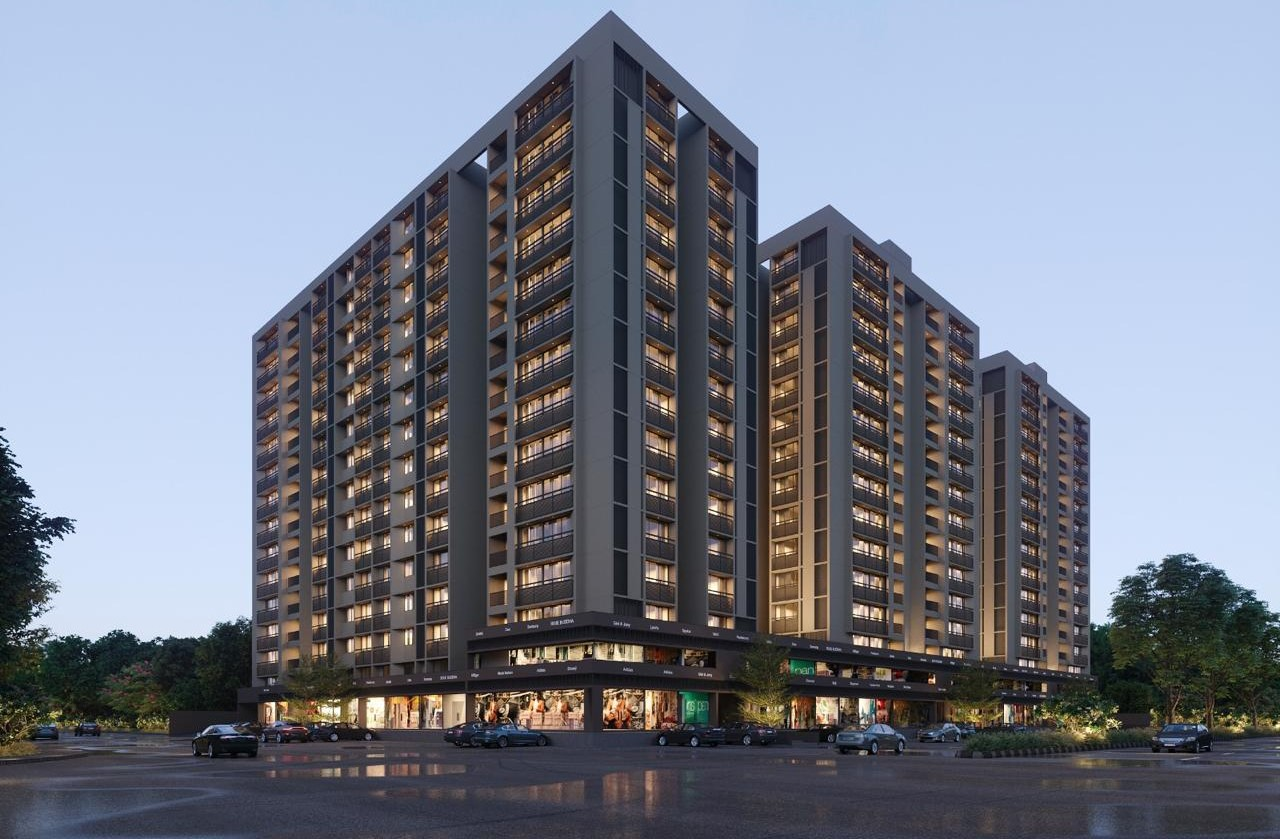
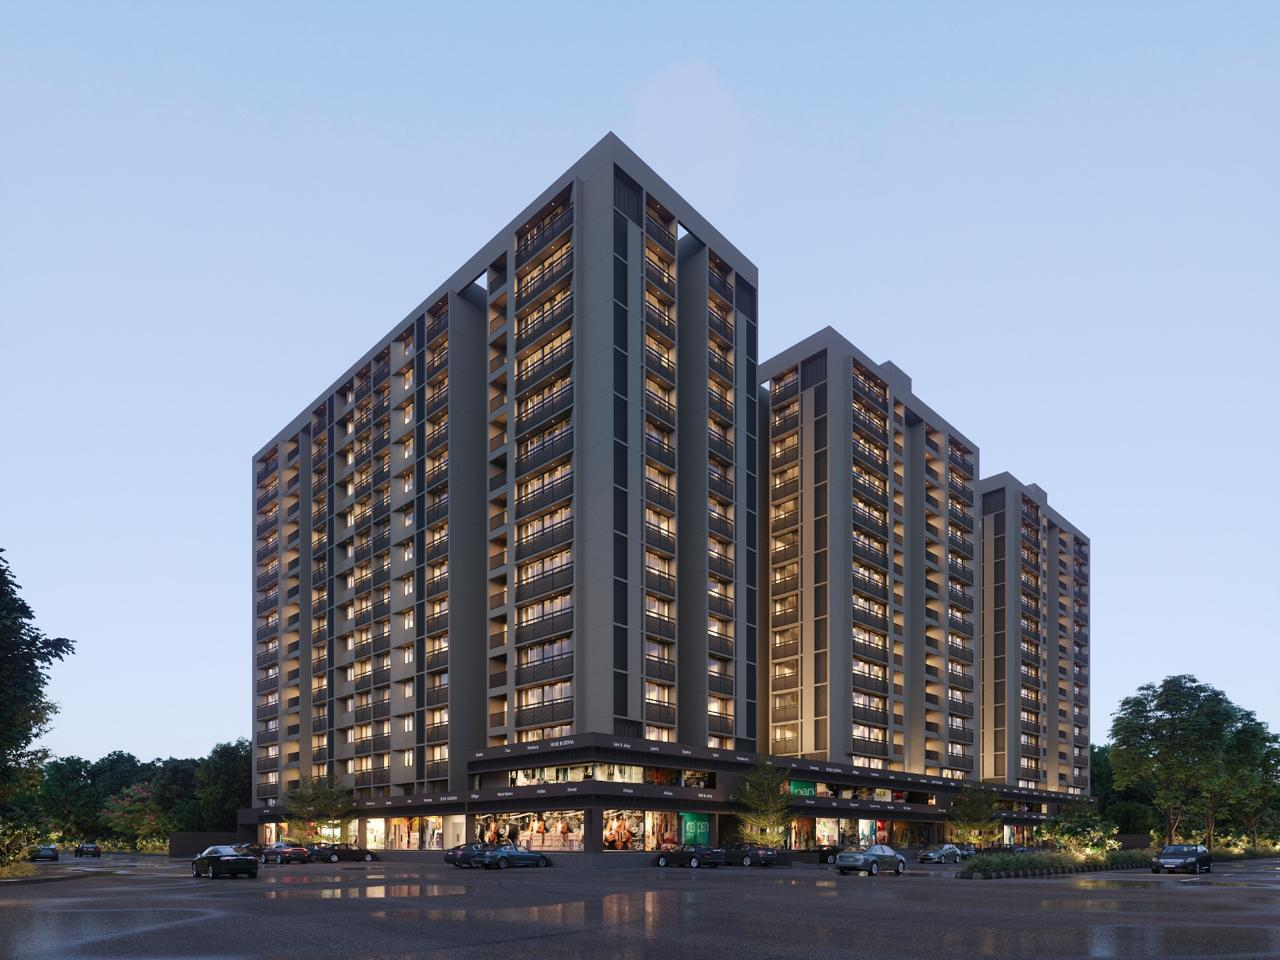
updated some images and styling

Changed region(s): [[0.0, 0.0, 1.0, 0.9607]]

diff --git a/nirman-projects.html b/nirman-projects.html
@@ -263,7 +263,7 @@
                                         <div class="swiper-slide">
                                             <div class="card" style="width: 100%">
                                                 <div style="overflow: hidden">
-                                                    <img src="./demoimage.jpg" class="card-img-top" alt="..." />
+                                                    <img src="./projects-images/nirman-greens.jpeg" class="card-img-top" alt="..." />
                                                 </div>
                                                 <div class="card-body">
                                                     <h5 class="card-title">
@@ -275,8 +275,7 @@
                                                         data-target="#projectModal" data-project-name="Nirmaan Greens"
                                                         data-project-type="Residential, Commercial"
                                                         data-project-size="Not available" data-project-year="2019"
-                                                        data-project-location="Prantij Highway" data-project-images="./projects-images/nirman-greens.jpeg,
-                                                                             ./projects-images/nirmaan-greens1.png"
+                                                        data-project-location="Prantij Highway" data-project-images="./projects-images/nirman-greens.jpeg,./projects-images/nirmaan-greens1.png"
                                                         data-project-value="25 Crores">Read More</a>
                                                 </div>
                                             </div>
@@ -284,7 +283,8 @@
                                         <div class="swiper-slide">
                                             <div class="card" style="width: 100%">
                                                 <div style="overflow: hidden">
-                                                    <img src="./demoimage.jpg" class="card-img-top" alt="..." />
+                                                    <img src="./projects-images/Final_Render_Entry_View_Revised.jpg.jpg"
+                                                        class="card-img-top" alt="..." />
                                                 </div>
                                                 <div class="card-body">
                                                     <h5 class="card-title">
@@ -564,7 +564,8 @@
                                         <div class="swiper-slide">
                                             <div class="card" style="width: 100%">
                                                 <div style="overflow: hidden">
-                                                    <img src="./demoimage.jpg" class="card-img-top" alt="..." />
+                                                    <img src="./projects-images/Nirmansatva/01.jpg" class="card-img-top"
+                                                        alt="..." />
                                                 </div>
                                                 <div class="card-body">
                                                     <h5 class="card-title">
@@ -578,7 +579,7 @@
                                                         data-project-type="Residential, Commercial"
                                                         data-project-year="2019" data-project-value="120 Crores"
                                                         data-project-images="./projects-images/Nirmansatva/01.jpg,
-                                                                             ./projects-images/Nirmansatva/02.jpg,">Read
+                                                                             ./projects-images/Nirmansatva/02.jpg">Read
                                                         More</a>
                                                     <!--a href="#" class="btn project-card-btn">Read More</a-->
                                                 </div>
@@ -599,7 +600,8 @@
                                                         data-target="#projectModal"
                                                         data-project-name="Nirmaan Corporate Office"
                                                         data-project-type="Residential, Commercial"
-                                                        data-project-year="2019" data-project-location="S.G. Highway"
+                                                        data-project-size="Not available" data-project-year="2019"
+                                                        data-project-location="S.G. Highway"
                                                         data-project-value="20 Crores">Read More</a>
                                                 </div>
                                             </div>
@@ -607,7 +609,7 @@
                                         <div class="swiper-slide">
                                             <div class="card" style="width: 100%">
                                                 <div style="overflow: hidden">
-                                                    <img src="./demoimage.jpg" class="card-img-top" alt="..." />
+                                                    <img src="./projects-images/nirman-greens.jpeg" class="card-img-top" alt="..." />
                                                 </div>
                                                 <div class="card-body">
                                                     <h5 class="card-title">
@@ -618,8 +620,9 @@
                                                     <a class="btn project-card-btn" data-toggle="modal"
                                                         data-target="#projectModal" data-project-name="Nirmaan Greens"
                                                         data-project-type="Residential, Commercial"
+                                                        data-project-size="Not available"
                                                         data-project-year="2019" data-project-location="Prantij Highway"
-                                                        data-project-value="25 Crores" data-project-images="./projects-images/nirmaan-greens.jpeg,
+                                                        data-project-value="25 Crores" data-project-images="./projects-images/nirman-greens.jpeg,
                                                         ./projects-images/nirmaan-greens1.png">Read More</a>
                                                 </div>
                                             </div>
@@ -698,7 +701,8 @@
                                         <div class="swiper-slide">
                                             <div class="card" style="width: 100%">
                                                 <div style="overflow: hidden">
-                                                    <img src="./demoimage.jpg" class="card-img-top" alt="..." />
+                                                    <img src="./projects-images/Final_Render_commercial_Front-1.jpg"
+                                                        class="card-img-top" alt="..." />
                                                 </div>
                                                 <div class="card-body">
                                                     <h5 class="card-title">
@@ -784,7 +788,7 @@
                                         <div class="swiper-slide">
                                             <div class="card" style="width: 100%">
                                                 <div style="overflow: hidden">
-                                                    <img src="./demoimage.jpg" class="card-img-top" alt="..." />
+                                                    <img src="./projects-images/nirman-habitat1.jpeg" class="card-img-top" alt="..." />
                                                 </div>
                                                 <div class="card-body">
                                                     <h5 class="card-title">
@@ -1022,6 +1026,37 @@
     </script>
 
     <script>
+
+        var swiper1 = new Swiper(".mySwiper", {
+            slidesPerView: 1,
+            loop: true,
+            spaceBetween: 30,
+            // freeMode: true,
+            pagination: {
+                el: ".swiper-pagination",
+                clickable: true,
+            },
+            observer: true, // Add this
+            observeParents: true, // Add this
+
+            navigation: {
+                nextEl: ".tabnext1",
+                prevEl: ".tabprev1",
+            },
+
+            autoplay: {
+                delay: 3000, // Set autoplay delay to 3 seconds
+                disableOnInteraction: false,
+            },
+            breakpoints: {
+                // Add breakpoints for different screen sizes
+                768: {
+                    slidesPerView: 3, // Show only one slide on mobile
+                    spaceBetween: 10, // Adjust space between slides on mobile
+                },
+                // Add more breakpoints if needed
+            },
+        });
         var swiper2 = new Swiper(".mySwiper2", {
             slidesPerView: 1,
             loop: true,
@@ -1073,114 +1108,8 @@
                 },
             },
         });
-        var swiper4 = new Swiper(".mySwiper4", {
-            slidesPerView: 1,
-            loop: true,
-            spaceBetween: 30,
-            freeMode: true,
-            // pagination: {
-            //     el: ".swiper-pagination",
-            //     clickable: true,
-            // },
-            navigation: true,
-            navigation: {
-                nextEl: ".tabnext4",
-                prevEl: ".tabprev4",
-            },
-            autoplay: {
-                delay: 3000,
-                disableOnInteraction: false,
-            },
-            breakpoints: {
-                768: {
-                    slidesPerView: 3,
-                    spaceBetween: 10,
-                },
-            },
-        });
-        var swiper5 = new Swiper(".mySwiper5", {
-            slidesPerView: 1,
-            loop: true,
-            spaceBetween: 30,
-            freeMode: true,
-            // pagination: {
-            //     el: ".swiper-pagination",
-            //     clickable: true,
-            // },
-            navigation: true,
-            navigation: {
-                nextEl: ".tabnext5",
-                prevEl: ".tabprev5",
-            },
-            autoplay: {
-                delay: 3000,
-                disableOnInteraction: false,
-            },
-            breakpoints: {
-                768: {
-                    slidesPerView: 3,
-                    spaceBetween: 10,
-                },
-            },
-        });
 
-        var swiper6 = new Swiper(".mySwiper6", {
-            slidesPerView: 1,
-            loop: true,
-            spaceBetween: 30,
-            freeMode: true,
-            // pagination: {
-            //     el: ".swiper-pagination",
-            //     clickable: true,
-            // },
 
-            navigation: {
-                nextEl: ".tabnext6",
-                prevEl: ".tabprev6",
-            },
-            autoplay: {
-                delay: 3000,
-                disableOnInteraction: false,
-            },
-            breakpoints: {
-                768: {
-                    slidesPerView: 3,
-                    spaceBetween: 10,
-                },
-            },
-        });
-
-        var swiper1 = new Swiper(".mySwiper", {
-            slidesPerView: 1,
-            loop: true,
-            spaceBetween: 30,
-            // freeMode: true,
-            pagination: {
-                el: ".swiper-pagination",
-                clickable: true,
-            },
-            observer: true, // Add this
-            observeParents: true, // Add this
-
-            navigation: {
-                nextEl: ".tabnext1",
-                prevEl: ".tabprev1",
-            },
-
-            autoplay: {
-                delay: 3000, // Set autoplay delay to 3 seconds
-                disableOnInteraction: false,
-            },
-            breakpoints: {
-                // Add breakpoints for different screen sizes
-                768: {
-                    slidesPerView: 3, // Show only one slide on mobile
-                    spaceBetween: 10, // Adjust space between slides on mobile
-                },
-                // Add more breakpoints if needed
-            },
-        });
-        swiper1.update();
         function changeTabColor(clickedTab) {
             // Reset styles for all tabs
             var tabs = document.querySelectorAll(".nav-tabs li a");
@@ -1193,13 +1122,7 @@
             clickedTab.style.backgroundColor = "#your-desired-color";
             clickedTab.style.backgroundColor = "Bondi Blue";
         }
-        $('a[data-toggle="tab"]').on("shown.bs.tab", function (e) {
-            var target = $(e.target).attr("href");
 
-            if (target === "#1a") {
-                swiper1.update(); // Reinitialize or update Swiper instance for tab #1a
-            }
-        });
     </script>
     <script>
         document.addEventListener("DOMContentLoaded", function () {

diff --git a/style.css b/style.css
@@ -603,10 +603,20 @@ input[type="checkbox"] {
   /* justify-content: space-between; */
   padding: 10px 45px;
   color: white;
-  min-height: 350px;
+  min-height: 490px;
   border-radius: 10px;
 }
-
+@media (max-width:1200px) and (min-width:989px){
+  .Team-member-main{
+    min-height: 550px;
+  }
+}
+@media (max-width:990px) and (min-width:610px){
+  .Team-member-main{
+    margin: 10px;
+    min-height: 0px;
+  }
+}
 @media (max-width: 600px) {
   .Team-member-main {
     background-color: #343434;
@@ -672,7 +682,7 @@ input[type="checkbox"] {
 }
 
 #about-para {
-  font-size: 1.2rem;
+  font-size: 1rem;
   color: white;
   /* font-family: "Playfair", serif; */
   padding: 20px;
@@ -1198,6 +1208,7 @@ input[type="checkbox"] {
 .swiper-slide .card {
   overflow: hidden;
   border: none;
+  height: 100%;
   /* border-radius: 10px; */
 }
 
@@ -1208,6 +1219,7 @@ input[type="checkbox"] {
   border-radius: 2px;
   transition: 0.5s;
   width: 100%;
+  font-size: 0.9rem;
 }
 
 .swiper-slide .project-card-btn:hover {
@@ -1229,6 +1241,10 @@ input[type="checkbox"] {
 .swiper-slide .card-img-top {
   /* transform: scale(1.1); */
   transition: 0.5s;
+  aspect-ratio: 3/2;
+  width: 100%;
+  height: 100%;
+  object-fit: cover;
 }
 
 .swiper-slide:hover .card-body {
@@ -1243,6 +1259,7 @@ input[type="checkbox"] {
   border: none;
   transition: 0.5s;
   border-bottom: 1px solid #383838;
+  padding: 0.8rem;
 }
 
 .swiper-slide:hover .card-title {
@@ -1254,7 +1271,7 @@ input[type="checkbox"] {
   color: rgb(255, 255, 255);
   transition: 0.5s;
   font-family: "Raleway", sans-serif;
-  font-size: 1.6rem;
+  font-size: 1.5rem;
 }
 
 .swiper-slide .card-title span {
@@ -2377,7 +2394,7 @@ a:not([href]):not([tabindex]):hover{
 }
 #carouselImages img{ 
   width: 100%;
-  object-fit: cover;
+  object-fit: contain;
   aspect-ratio:3/2;
 }
 #modalProjectName{

diff --git a/index.html b/index.html
@@ -140,7 +140,7 @@
                             </div>
 
                             <div class="c-swiper__image-container">
-                                <img src="./projects-images/nirman-habitat.jpeg" alt="nirman-habitat-img" />
+                                <img src="./projects-images/Final_Render_Dusk_View.jpg" alt="nirman-habitat-img" style="object-fit: cover;aspect-ratio: 3/2;" />
                             </div>
                         </div>
 
